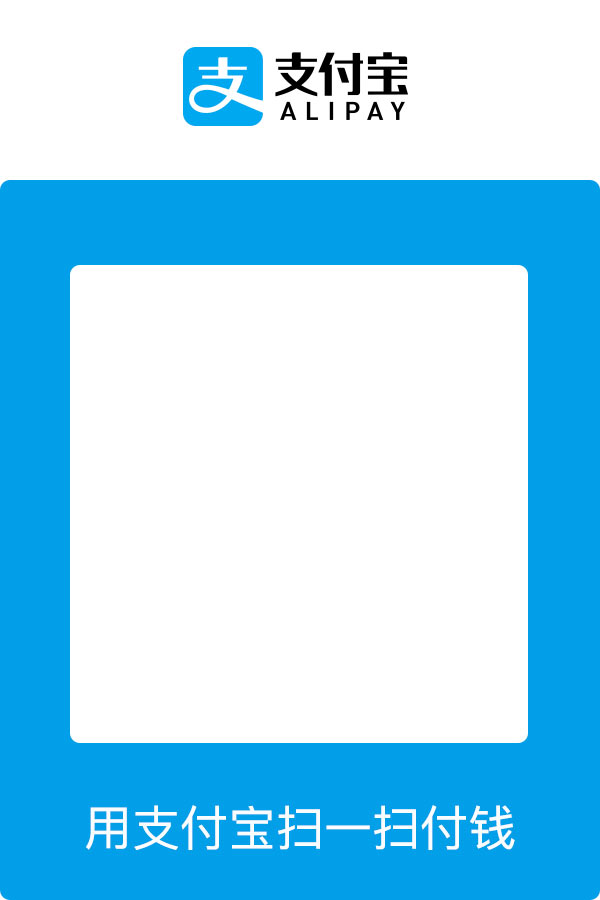
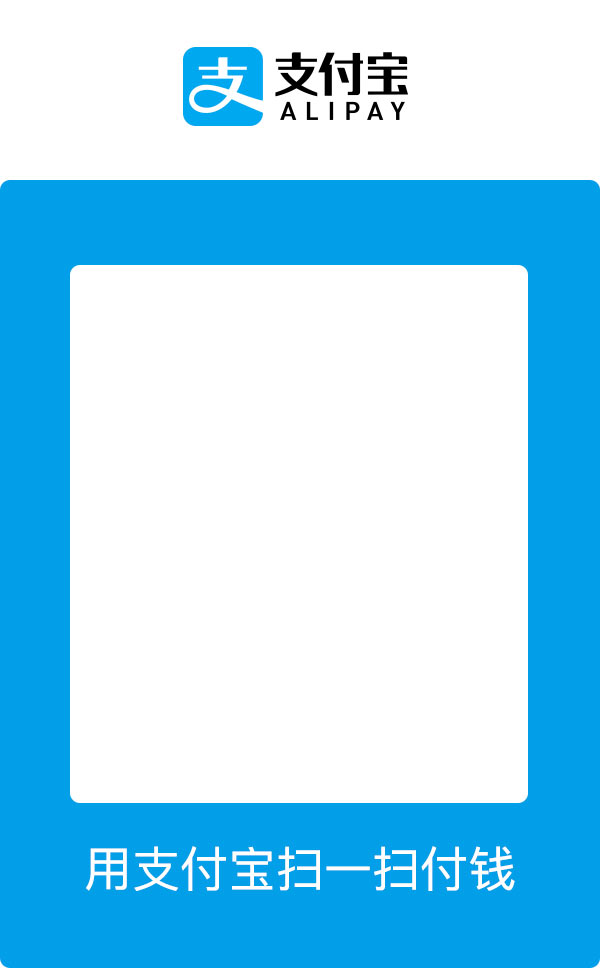
plan 支付图片变清晰

diff --git a/Front/src/assets/css/my.css b/Front/src/assets/css/my.css
@@ -3094,15 +3094,15 @@ md-autocomplete .md-show-clear-button button{width:22px;height:22px;margin:auto 
 }
 
 .alipay-box qr {
-  position: absolute;
-  top: 122px;
-  left: 50%;
-  margin-left: -60px;
-  width: 120px;
+    position: absolute;
+    top: 112px;
+    left: 50%;
+    margin-left: -70px;
+    width: 140px;
 }
 
 .alipay-box qr img {
-  width: 120px;
+  width: 140px;border-radius:3px;
 }
 
 .alipay-box .amount {
